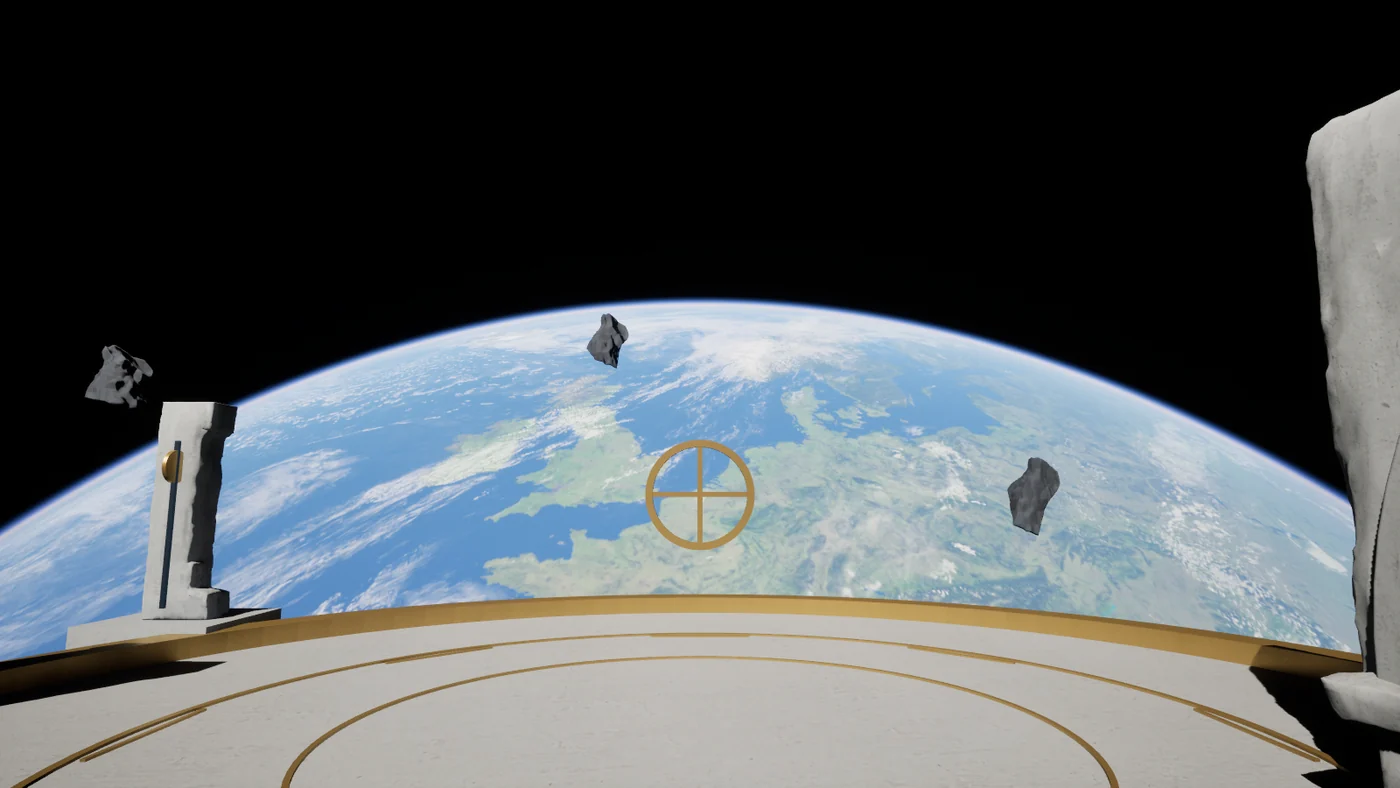
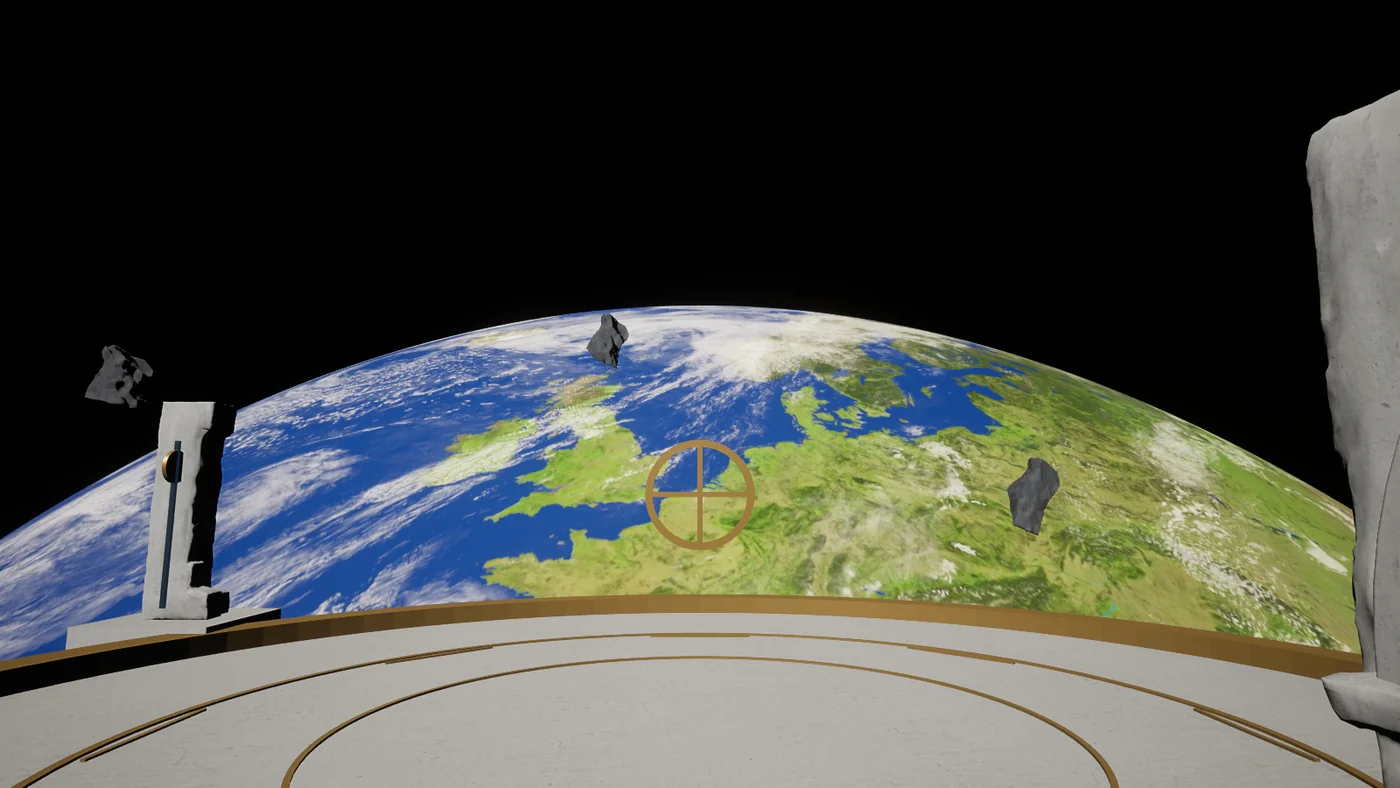
Publish build 20 native mobile planets and verified preview images

diff --git a/scripts/prepare-native-worlds.py b/scripts/prepare-native-worlds.py
@@ -1,0 +1,53 @@
+"""Publish checked mobile world previews without changing historical post images."""
+import argparse
+import hashlib
+import json
+import shutil
+from pathlib import Path
+from PIL import Image
+
+parser = argparse.ArgumentParser()
+parser.add_argument('--source-project', required=True)
+args = parser.parse_args()
+root = Path(__file__).resolve().parents[1]
+renders = Path(args.source_project) / 'Saved/AgentRuns/planet-parity-20261015/native-mobile-final-worlds'
+rows = [('saturn','Level_1_QuestLink'),('venus','Level_2_Venus'),('jupiter','Level_3_Jupiter'),
+        ('mercury','Level_4_Mercury'),('mars','Level_5_Mars'),('moon','Level_6_Moon'),('sun','Level_7_Sun'),('earth','Earth')]
+for key, name in rows:
+    source = renders / (name + '-game.png')
+    report = (renders / (name + '-review.txt')).read_text(encoding='utf-8-sig')
+    if not source.is_file() or 'collision_errors=0' not in report:
+        raise RuntimeError('A checked world render is missing: ' + key)
+manifest_path = root / 'content/media.json'
+manifest = json.loads(manifest_path.read_text(encoding='utf-8'))
+posts_path = root / 'content/posts.json'
+posts = json.loads(posts_path.read_text(encoding='utf-8'))
+for key, name in rows:
+    image_key = key + '-game'
+    historical_key = image_key + '-before-native20'
+    if historical_key not in manifest:
+        old = manifest[image_key]
+        historical_path = 'assets/media/' + historical_key + '.webp'
+        shutil.copyfile(root / 'public' / old['path'], root / 'public' / historical_path)
+        manifest[historical_key] = {**old, 'path': historical_path, 'historical': True,
+                                    'label': 'Eerder gepubliceerde Windows-spelrender · vóór het mobiele planeetherstel'}
+    for post in posts:
+        if post['image'] == image_key:
+            post['image'] = historical_key
+    with Image.open(renders / (name + '-game.png')) as image:
+        image = image.convert('RGB')
+        image.thumbnail((1400, 1000), Image.Resampling.LANCZOS)
+        target = root / 'public/assets/media' / (image_key + '.webp')
+        image.save(target, 'WEBP', quality=86, method=6)
+        manifest[image_key] = {'path': 'assets/media/' + target.name, 'width': image.width,
+                               'height': image.height, 'revision': hashlib.sha256(target.read_bytes()).hexdigest()[:12],
+                               'label': 'Mobiele Unreal-preview op Windows · build 20 · geen headsetbeeld'}
+worlds_path = root / 'content/worlds.json'
+worlds = json.loads(worlds_path.read_text(encoding='utf-8'))
+for world in worlds:
+    world['buildVersion'] = 20
+    world['updated'] = '2026-10-15'
+    world['renderNote'] = 'Nieuw gecontroleerd beeld uit de mobiele Unreal-renderer op Windows. De fysieke headsetcontrole en frameratemeting van build 20 staan nog open.'
+for path, value in [(manifest_path,manifest),(posts_path,posts),(worlds_path,worlds)]:
+    path.write_text(json.dumps(value, indent=2, ensure_ascii=False) + '\n', encoding='utf-8')
+print(json.dumps({'mobile_previews':len(rows),'historical_images_preserved':True,'headset_images':0}))

diff --git a/scripts/prepare-planet-review.py b/scripts/prepare-planet-review.py
@@ -1,0 +1,30 @@
+"""Import the verified Venus render comparison with explicit provenance."""
+import argparse
+import hashlib
+import json
+from pathlib import Path
+from PIL import Image
+
+parser = argparse.ArgumentParser()
+parser.add_argument('--source-project', required=True)
+args = parser.parse_args()
+root = Path(__file__).resolve().parents[1]
+run = Path(args.source_project) / 'Saved/AgentRuns/planet-parity-20261015'
+rows = [
+    ('venus-mobile-before', run / 'native-planet-baseline/Level_2_Venus-game.png', 'Mobiele Unreal-preview vóór herstel · Windows, geen headsetbeeld'),
+    ('venus-mobile-restored', run / 'native-mobile-final-planets/Level_2_Venus-game.png', 'Mobiele Unreal-preview na herstel · Windows, geen headsetbeeld'),
+    ('venus-native-desktop-reference', run / 'native-planet-desktop-reference/Level_2_Venus-game.png', 'Oorspronkelijke desktoprender · dezelfde gerichte camera'),
+]
+manifest_path = root / 'content/media.json'
+manifest = json.loads(manifest_path.read_text(encoding='utf-8'))
+for key, source, label in rows:
+    with Image.open(source) as image:
+        image = image.convert('RGB')
+        image.thumbnail((1400, 1000), Image.Resampling.LANCZOS)
+        target = root / 'public/assets/media' / (key + '.webp')
+        image.save(target, 'WEBP', quality=86, method=6)
+        manifest[key] = {'path': 'assets/media/' + target.name, 'width': image.width,
+                         'height': image.height, 'revision': hashlib.sha256(target.read_bytes()).hexdigest()[:12],
+                         'historical': True, 'label': label}
+manifest_path.write_text(json.dumps(manifest, indent=2, ensure_ascii=False) + '\n', encoding='utf-8')
+print(json.dumps({'imported': len(rows), 'metadata_removed': True, 'headset_images': 0}))

diff --git a/README.md b/README.md
@@ -9,9 +9,9 @@ Deze aparte repository bevat de website en geselecteerde, geoptimaliseerde beeld
 Node.js 22 of nieuwer is voldoende; installatie van extra packages is niet nodig.
 
 ```sh
-npm run build
-npm run check
-npm run dev
+node scripts/build.mjs
+node scripts/check.mjs
+node scripts/preview.mjs
 ```
 
 Open de Local URL uit de terminal. De preview gebruikt dezelfde `/arcana-devlog/`-paden als GitHub Pages.
@@ -26,7 +26,7 @@ Wereldteksten staan in `content/worlds.json`. Algemene gegevens en de Meta-uitno
 
 Een push naar `main` bouwt en controleert de website en publiceert `dist/` via GitHub Actions naar Pages. `dist/` zelf wordt niet gecommit. GitHub Pages moet als bron **GitHub Actions** gebruiken. Er zijn geen providerkeys of custom secrets nodig in de workflow.
 
-De huidige teksten verwijzen naar de stand van 15 oktober 2026. Lokale testbuild 18 is via USB geïnstalleerd en start op Quest. De atmosfeer werkt, maar de oorspronkelijke UDS-planeten ontbreken nog volgens de headsettest. Op het Meta-releasekanaal is build 16 bevestigd. Nieuwe builds die alleen zijn voorbereid worden als zodanig beschreven.
+De huidige teksten verwijzen naar 15 oktober 2026. Build 20 is via USB geïnstalleerd en gepubliceerd op Meta-ALPHA; Meta toont de automatische tests als Voltooid. De oorspronkelijke planeten zijn hersteld in de mobiele renderroute. Acht mobiele wereldpreviews en zeven gerichte planeetpreviews op Windows zijn gecontroleerd. Beeld in beide ogen, comfort en framerate op de headset zijn nog niet bevestigd.
 
 Publiceer na een betekenisvolle, gecontroleerde mijlpaal en werk de wereldpagina’s en teststatus in dezelfde wijziging bij. Een wekelijkse controle op vrijdag om 17:00 kijkt of er nieuwe resultaten zijn; zonder nieuws is er geen nieuw artikel. Houd historische artikelen herkenbaar als de stand bij die mijlpaal.
 
@@ -35,7 +35,7 @@ De beeldimport ondersteunt `--renders-dir` voor een nieuwe reeks gecontroleerde 
 ## Beelden en claims
 
 - Conceptart is AI-gegenereerd en wordt als ontwerpdoel gelabeld.
-- Spelbeelden zijn echte Windows-renders van de ontwikkelversie.
+- Spelbeelden zijn echte desktop- of mobiele Unreal-previews op Windows, met een expliciet herkomstlabel. Historische artikelbeelden blijven bewaard.
 - Quest-opstart, wereldmenu en reizen zijn deels bevestigd. De oorspronkelijke UDS-planeten, headsetaudio en stabiele framerate zijn nog niet bevestigd.
 - Werk status, beperkingen en testinstructies bij wanneer er nieuwe hardwaretests zijn.
 - Deel geen Unreal-assets, API-sleutels, persoonlijke testgegevens of lokale bestandsnamen in openbare updates.
